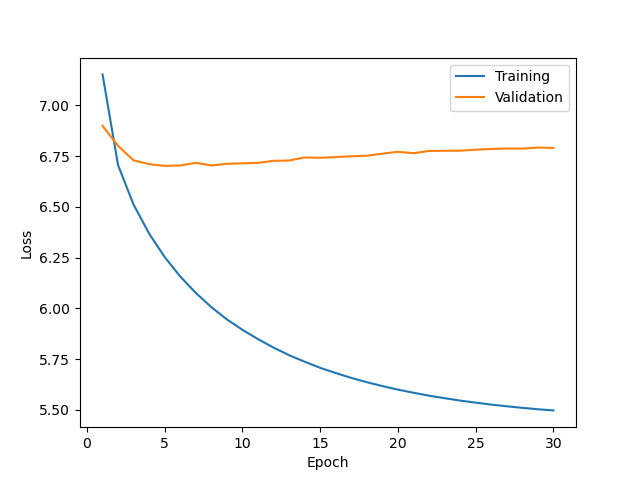
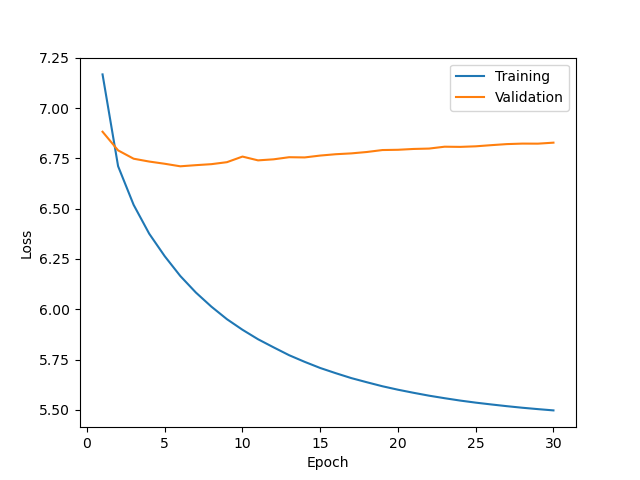
Added some more categories

diff --git a/config.py b/config.py
@@ -13,7 +13,7 @@ SUPERVISED = 0
 SEMI_SUPERVISED_PHASE_1 = 1
 SEMI_SUPERVISED_PHASE_2 = 2
 
-SUPERVISED_CLASSES = ('sports', 'religion', 'computers')
+SUPERVISED_CLASSES = ('religion', 'computers', 'vehicles', 'sports', 'science')
 
 VOCAB_SIZE = 0
 EMBED_DIM = 16
